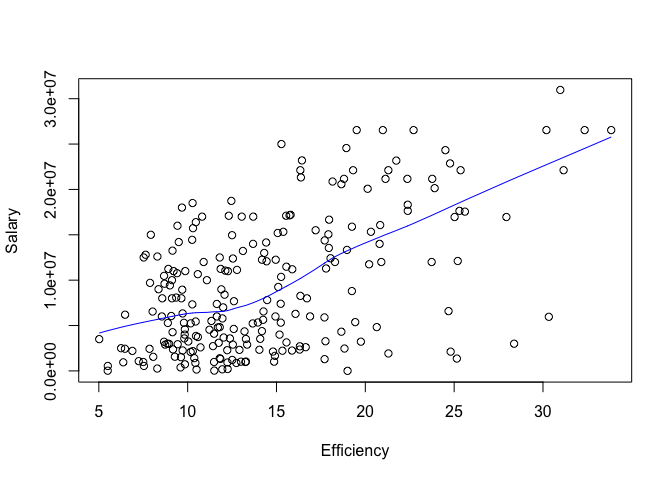
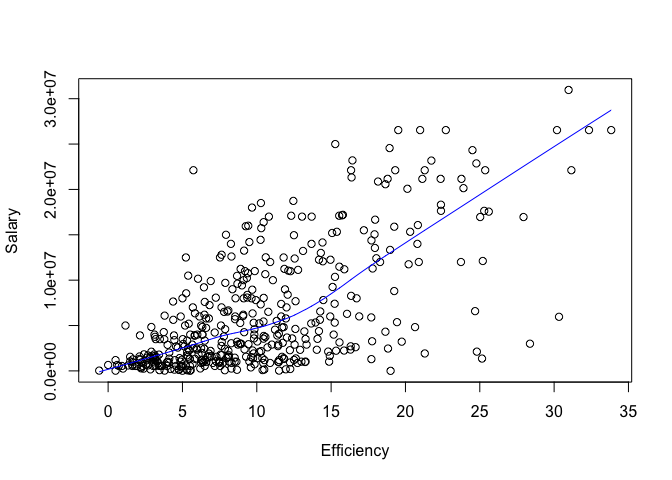
Finished HW02 code, working on dictionary and README

diff --git a/hw02/hw02-WooSik_Lewis_-Kim.md b/hw02/hw02-WooSik_Lewis_-Kim.md
@@ -9,24 +9,18 @@ Woo Sik (Lewis) Kim
 ``` r
 dataset1 <- read.csv(file = "data/nba2017-player-statistics.csv",
                      header = TRUE,
-                     colClasses = c("Player" = "character",
+                     colClasses = c("character",
                      "character",
-                     factor, "character", "double",
+                     "factor", "character", "double",
                      rep("integer", 19)))
-```
-
-    ## Warning in read.table(file = file, header = header, sep = sep, quote =
-    ## quote, : not all columns named in 'colClasses' exist
-
-``` r
 str(dataset1)
 ```
 
     ## 'data.frame':    441 obs. of  24 variables:
     ##  $ Player      : chr  "Al Horford" "Amir Johnson" "Avery Bradley" "Demetrius Jackson" ...
-    ##  $ Team        : Factor w/ 30 levels "ATL","BOS","BRK",..: 2 2 2 2 2 2 2 2 2 2 ...
+    ##  $ Team        : chr  "BOS" "BOS" "BOS" "BOS" ...
     ##  $ Position    : Factor w/ 5 levels "C","PF","PG",..: 1 2 5 3 4 3 4 5 4 2 ...
-    ##  $ Experience  : Factor w/ 19 levels "1","10","11",..: 18 3 15 19 18 14 13 11 19 15 ...
+    ##  $ Experience  : chr  "9" "11" "6" "R" ...
     ##  $ Salary      : num  26540100 12000000 8269663 1450000 1410598 ...
     ##  $ Rank        : int  4 6 5 15 11 1 3 13 8 10 ...
     ##  $ Age         : int  30 29 26 22 31 27 26 21 20 29 ...
@@ -210,11 +204,25 @@ EFF <- (dataset2$PTS + dataset2$REB + dataset2$AST + dataset2$STL +
           dataset2$TO) / dataset2$GP
 
 dataset2 <- cbind(dataset2, EFF)
-
-hist(dataset2$EFF)
 ```
 
-![](hw02-WooSik_Lewis_-Kim_files/figure-markdown_github-ascii_identifiers/unnamed-chunk-4-1.png)
+**Computing summary statistics for efficiency values, and creating a histogram:**
+
+``` r
+# Declaring dataset2$EFF as a new variable "Efficiency" for histogram title(s).
+Efficiency <- dataset2$EFF 
+
+summary(Efficiency)
+```
+
+    ##    Min. 1st Qu.  Median    Mean 3rd Qu.    Max. 
+    ##  -0.600   5.452   9.090  10.137  13.247  33.840
+
+``` r
+hist(Efficiency)
+```
+
+![](hw02-WooSik_Lewis_-Kim_files/figure-markdown_github-ascii_identifiers/unnamed-chunk-5-1.png)
 
 **Processing the EFF data to get the top 10 players, and their associated name, team, salary, and EFF values:**
 
@@ -250,7 +258,7 @@ str(neg_eff)
 
 • Player(s) with a negative EFF value: "Patricio Garino: -0.6"
 
-**Calculating the correlation coefficients between EFF and all the variables used in the EFF formula (in order of PTS, REB, STL, AST, BLK, Missed\_FT, Missed\_FG, TO, GP), and adding them to the vector "corr\_coeff":**
+**Calculating the correlation coefficients between EFF and all the variables used in the EFF formula (in order of PTS, REB, STL, AST, BLK, Missed\_FT, Missed\_FG, TO), and adding them to the vector "corr\_coeff":**
 
 ``` r
 corr_coeff <- c(cor(dataset2$EFF, dataset2$PTS), 
@@ -261,21 +269,22 @@ corr_coeff <- c(cor(dataset2$EFF, dataset2$PTS),
                 -1*cor(dataset2$EFF, dataset2$Missed_FT),
                 -1*cor(dataset2$EFF, dataset2$Missed_FG),
                 -1*cor(dataset2$EFF, dataset2$TO))
-sort(corr_coeff, decreasing = TRUE)
-```
 
-    ## [1]  0.8588644  0.7634501  0.6957286  0.6689232  0.5679571 -0.7271456
-    ## [7] -0.7722477 -0.8003289
+sorted_eff <- sort(corr_coeff, decreasing = TRUE)
+```
 
 **Creating a barchart with the correlations:**
 
 ``` r
-barplot(corr_coeff, main = "name", space = c(0, 1), beside=TRUE,
+barplot(sorted_eff, main = "Correlations between Player
+        Stats and EFF", beside=TRUE,
         ylim = c(-1, 1), names = c("PTS", "REB", "STL", "AST", "BLK",
-                                   "Missed_FT", "Missed_FG", "TO"))
+                                   "Missed_FT", "Missed_FG", "TO"),
+        col = c("grey", "grey", "grey","grey", "grey", "red", "red", "red"))
+abline(0, 0)
 ```
 
-![](hw02-WooSik_Lewis_-Kim_files/figure-markdown_github-ascii_identifiers/unnamed-chunk-8-1.png)
+![](hw02-WooSik_Lewis_-Kim_files/figure-markdown_github-ascii_identifiers/unnamed-chunk-9-1.png)
 
 **Creating a scatterplot of "Efficiency" vs. "Salary" using the entire NBA data set (dataset2):**
 
@@ -284,7 +293,7 @@ plot(dataset2$EFF, dataset2$Salary, xlab = "Efficiency", ylab = "Salary")
 lines(lowess(dataset2$EFF, dataset2$Salary), col = "blue")
 ```
 
-![](hw02-WooSik_Lewis_-Kim_files/figure-markdown_github-ascii_identifiers/unnamed-chunk-9-1.png)
+![](hw02-WooSik_Lewis_-Kim_files/figure-markdown_github-ascii_identifiers/unnamed-chunk-10-1.png)
 
 Also, compute the linear correlation coefficient between them. What can you say about the relationship between these two variables?
 
@@ -296,7 +305,7 @@ cor(dataset2$EFF, dataset2$Salary)
 
     ## [1] 0.655624
 
-• The relationship between efficiency and salary for all players seem to be .
+• The relationship between efficiency and salary for all players does not seem to be very strong. There is a positive linear relationship between the two variables (as one increases, the other also increases), but there may not be statistical significance to their correlation. This also has to do with the fact that we're not looking at enough variables, since this correlation only considers efficiency statistic vs. salary.
 
 **Selecting players who have MPG values of more than 20, and creating data frame "players2":**
 
@@ -310,14 +319,14 @@ str(players2)
     ##  $ Salary: num  26540100 12000000 8269663 6587132 6286408 ...
     ##  $ EFF   : num  19.5 10.9 16.3 24.7 16.1 ...
 
-**Creating a scatterplot between "Efficiency" and "Salary" using the data frame "players2" (players whose MPG values &gt;20):**
+**Creating a scatterplot between "Efficiency" and "Salary" using the data frame "players2" (players whose MPG values &gt; 20):**
 
 ``` r
 plot(players2$EFF, players2$Salary, xlab = "Efficiency", ylab = "Salary")
 lines(lowess(players2$EFF, players2$Salary), col = "blue")
 ```
 
-![](hw02-WooSik_Lewis_-Kim_files/figure-markdown_github-ascii_identifiers/unnamed-chunk-12-1.png)
+![](hw02-WooSik_Lewis_-Kim_files/figure-markdown_github-ascii_identifiers/unnamed-chunk-13-1.png)
 
 **Computing the linear correlation coefficient between "Efficiency" and "Salary" for players whose MPG values &gt; 20:**
 
@@ -327,9 +336,7 @@ cor(players2$EFF, players2$Salary)
 
     ## [1] 0.5367224
 
-What can you say about the relationship between these two variables for the set of “more established players”?
-
-• The relationship between efficiency and salary for "more established players" seem to be
+• The correlation coefficient between efficiency and salary for the "more established players" seem to be lower than the coefficient for all players by about 22% (0.655 / 0.536), meaning there is a weaker correlation for the "more established players" than among everyone. This may be because there are more rookies, and they contribute more to the EFF statistic simply due to sheer numbers. It also may be that there are other variables we're not considering.
 
 **Comments and Reflections (Answered in Order)**
 
